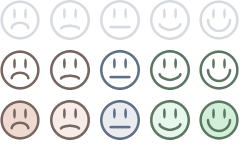
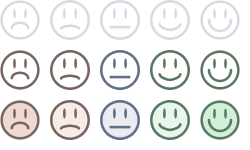
Simplified rating buttons (thanks to advice from gkoberger)

Changed region(s): [[0.784, 0.32, 0.98, 0.6133], [0.784, 0.6667, 0.98, 0.9333], [0.784, 0.0267, 0.952, 0.24]]

diff --git a/feedback.html b/feedback.html
@@ -76,47 +76,47 @@
 			<tbody>
 				<tr>
 					<th>Start-Up Time <span class="help" title="How long Firefox takes to start running"></span></th>
-					<td><span class="a1"><input type="radio" name="q1" value="a1" title="Poor" /></span></td>
-					<td><span class="a2"><input type="radio" name="q1" value="a2" title="Fair" /></span></td>
-					<td><span class="a3"><input type="radio" name="q1" value="a3" title="Don't Care" /></span></td>
-					<td><span class="a4"><input type="radio" name="q1" value="a4" title="Good" /></span></td>
-					<td><span class="a5"><input type="radio" name="q1" value="a5" title="Excellent" /></span></td>
+					<td><input id="q1-a1" type="radio" name="q1" value="a1" /> <label title="Poor" for="q1-a1"></label></td>
+					<td><input id="q1-a2" type="radio" name="q1" value="a2" /> <label title="Fair" for="q1-a2"></label></td>
+					<td><input id="q1-a3" type="radio" name="q1" value="a3" /> <label title="Don't Care" for="q1-a3"></label></td>
+					<td><input id="q1-a4" type="radio" name="q1" value="a4" /> <label title="Good" for="q1-a4"></label></td>
+					<td><input id="q1-a5" type="radio" name="q1" value="a5" /> <label title="Excellent" for="q1-a5"></label></td>
 				</tr>
 
 				<tr>
-					<th>Page Load Time <span class="help" title="How long it takes for web pages to load"></span></th>
-					<td><span class="a1"><input type="radio" name="q2" value="a1" title="Poor" /></span></td>
-					<td><span class="a2"><input type="radio" name="q2" value="a2" title="Fair" /></span></td>
-					<td><span class="a3"><input type="radio" name="q2" value="a3" title="Don't Care" /></span></td>
-					<td><span class="a4"><input type="radio" name="q2" value="a4" title="Good" /></span></td>
-					<td><span class="a5"><input type="radio" name="q2" value="a5" title="Excellent" /></span></td>
+					<th>Page Load Time <label class="help" title="How long it takes for web pages to load"></th>
+					<td><input id="q2-a1" type="radio" name="q2" value="a1" /> <label title="Poor" for="q2-a1"></label></td>
+					<td><input id="q2-a2" type="radio" name="q2" value="a2" /> <label title="Fair" for="q2-a2"></label></td>
+					<td><input id="q2-a3" type="radio" name="q2" value="a3" /> <label title="Don't Care" for="q2-a3"></label></td>
+					<td><input id="q2-a4" type="radio" name="q2" value="a4" /> <label title="Good" for="q2-a4"></label></td>
+					<td><input id="q2-a5" type="radio" name="q2" value="a5" /> <label title="Excellent" for="q2-a5"></label></td>
 				</tr>
 
 				<tr>
-					<th>Responsiveness <span class="help" title="How quickly web pages respond once they have loaded"></span></th>
-					<td><span class="a1"><input type="radio" name="q3" value="a1" title="Poor" /></span></td>
-					<td><span class="a2"><input type="radio" name="q3" value="a2" title="Fair" /></span></td>
-					<td><span class="a3"><input type="radio" name="q3" value="a3" title="Don't Care" /></span></td>
-					<td><span class="a4"><input type="radio" name="q3" value="a4" title="Good" /></span></td>
-					<td><span class="a5"><input type="radio" name="q3" value="a5" title="Excellent" /></span></td>
+					<th>Responsiveness <label class="help" title="How quickly web pages respond once they have loaded"></th>
+					<td><input id="q3-a1" type="radio" name="q3" value="a1" /> <label title="Poor" for="q3-a1"></label></td>
+					<td><input id="q3-a2" type="radio" name="q3" value="a2" /> <label title="Fair" for="q3-a2"></label></td>
+					<td><input id="q3-a3" type="radio" name="q3" value="a3" /> <label title="Don't Care" for="q3-a3"></label></td>
+					<td><input id="q3-a4" type="radio" name="q3" value="a4" /> <label title="Good" for="q3-a4"></label></td>
+					<td><input id="q3-a5" type="radio" name="q3" value="a5" /> <label title="Excellent" for="q3-a5"></label></td>
 				</tr>
 
 				<tr>
-					<th>Crashiness <span class="help" title="How frequently Firefox crashes or loses data"></span></th>
-					<td><span class="a1"><input type="radio" name="q4" value="a1" title="Poor" /></span></td>
-					<td><span class="a2"><input type="radio" name="q4" value="a2" title="Fair" /></span></td>
-					<td><span class="a3"><input type="radio" name="q4" value="a3" title="Don't Care" /></span></td>
-					<td><span class="a4"><input type="radio" name="q4" value="a4" title="Good" /></span></td>
-					<td><span class="a5"><input type="radio" name="q4" value="a5" title="Excellent" /></span></td>
+					<th>Crashiness <label class="help" title="How frequently Firefox crashes or loses data"></th>
+					<td><input id="q4-a1" type="radio" name="q4" value="a1" /> <label title="Poor" for="q4-a1"></label></td>
+					<td><input id="q4-a2" type="radio" name="q4" value="a2" /> <label title="Fair" for="q4-a2"></label></td>
+					<td><input id="q4-a3" type="radio" name="q4" value="a3" /> <label title="Don't Care" for="q4-a3"></label></td>
+					<td><input id="q4-a4" type="radio" name="q4" value="a4" /> <label title="Good" for="q4-a4"></label></td>
+					<td><input id="q4-a5" type="radio" name="q4" value="a5" /> <label title="Excellent" for="q4-a5"></label></td>
 				</tr>
 
 				<tr>
-					<th>Features <span class="help" title="How well Firefox's built-in features serve your needs"></span></th>
-					<td><span class="a1"><input type="radio" name="q5" value="a1" title="Poor" /></span></td>
-					<td><span class="a2"><input type="radio" name="q5" value="a2" title="Fair" /></span></td>
-					<td><span class="a3"><input type="radio" name="q5" value="a3" title="Don't Care" /></span></td>
-					<td><span class="a4"><input type="radio" name="q5" value="a4" title="Good" /></span></td>
-					<td><span class="a5"><input type="radio" name="q5" value="a5" title="Excellent" /></span></td>
+					<th>Features <label class="help" title="How well Firefox's built-in features serve your needs"></th>
+					<td><input id="q5-a1" type="radio" name="q5" value="a1" /> <label title="Poor" for="q5-a1"></label></td>
+					<td><input id="q5-a2" type="radio" name="q5" value="a2" /> <label title="Fair" for="q5-a2"></label></td>
+					<td><input id="q5-a3" type="radio" name="q5" value="a3" /> <label title="Don't Care" for="q5-a3"></label></td>
+					<td><input id="q5-a4" type="radio" name="q5" value="a4" /> <label title="Good" for="q5-a4"></label></td>
+					<td><input id="q5-a5" type="radio" name="q5" value="a5" /> <label title="Excellent" for="q5-a5"></label></td>
 				</tr>
 			</tbody>
 		</table>

diff --git a/style.css b/style.css
@@ -427,7 +427,7 @@ footer:hover {
 			#rate table tbody td {
 				text-align: center;
 			}
-			#rate table tbody td span {
+			#rate table tbody td label {
 				position: relative;
 				display: block;
 				width: 40px;
@@ -436,36 +436,38 @@ footer:hover {
 				background-image: url(ratings.png);
 				background-repeat: no-repeat 0 0;
 				overflow: hidden;
+				cursor: pointer;
+			}
+			#rate table tbody td input:focus + label {
+				border-radius: 20px;
+				box-shadow: 0 0 4px #5084C8;
 			}
 			#rate table tbody td input {
 				position: absolute;
-				left: 0;
-				top: 0;
-				width: 100%;
-				height: 100%;
-				border: 0 !important;
-				padding: 0 !important;
+				left: -1000em;
+				top: -1000em;
+				width: 0;
+				height: 0;
 				opacity: 0;
-				cursor: pointer;
 			}
 		
-			#rate table .a1 { background-position: 0px 0; }
-			#rate table .a2 { background-position: -50px 0; }
-			#rate table .a3 { background-position: -100px 0; }
-			#rate table .a4 { background-position: -150px 0; }
-			#rate table .a5 { background-position: -200px 0; }
+			#rate table input[value="a1"] + label { background-position: 0px 0; }
+			#rate table input[value="a2"] + label { background-position: -50px 0; }
+			#rate table input[value="a3"] + label { background-position: -100px 0; }
+			#rate table input[value="a4"] + label { background-position: -150px 0; }
+			#rate table input[value="a5"] + label { background-position: -200px 0; }
 		
-			#rate table .a1:hover { background-position: 0px -50px; }
-			#rate table .a2:hover { background-position: -50px -50px; }
-			#rate table .a3:hover { background-position: -100px -50px; }
-			#rate table .a4:hover { background-position: -150px -50px; }
-			#rate table .a5:hover { background-position: -200px -50px; }
+			#rate table input[value="a1"] + label:hover { background-position: 0px -50px; }
+			#rate table input[value="a2"] + label:hover { background-position: -50px -50px; }
+			#rate table input[value="a3"] + label:hover { background-position: -100px -50px; }
+			#rate table input[value="a4"] + label:hover { background-position: -150px -50px; }
+			#rate table input[value="a5"] + label:hover { background-position: -200px -50px; }
 		
-			#rate table .a1.checked { background-position: 0px -100px; }
-			#rate table .a2.checked { background-position: -50px -100px; }
-			#rate table .a3.checked { background-position: -100px -100px; }
-			#rate table .a4.checked { background-position: -150px -100px; }
-			#rate table .a5.checked { background-position: -200px -100px; }
+			#rate table input[value="a1"]:checked + label { background-position: 0px -100px; }
+			#rate table input[value="a2"]:checked + label { background-position: -50px -100px; }
+			#rate table input[value="a3"]:checked + label { background-position: -100px -100px; }
+			#rate table input[value="a4"]:checked + label { background-position: -150px -100px; }
+			#rate table input[value="a5"]:checked + label { background-position: -200px -100px; }
 		
 		
 #broken {

diff --git a/script.js b/script.js
@@ -39,23 +39,6 @@
 			
 			return this;
 		},
-		styledRadio: function(radioSelector, parentSelector) {
-			var self = this.get();
-			updateChecks(this);
-			return this.delegate(radioSelector, 'change', onChange)
-			           .delegate(radioSelector, 'focus', onFocus)
-			           .delegate(radioSelector, 'blur', onBlur);
-			
-			function onFocus(e) { $(this).closest(parentSelector).addClass('focused'); }
-			function onBlur(e) { $(this).closest(parentSelector).removeClass('focused'); }
-			function onChange(e) { updateChecks($(self)); }
-			
-			function updateChecks(self) {
-				self.find(radioSelector).each(function() {
-					$(this).closest(parentSelector).toggleClass('checked', this.checked);
-				});
-			}
-		},
 		submitButton: function(state) {
 			var textElem = this.find('span');
 			var oldHTML = textElem.html();
@@ -102,8 +85,6 @@
 			goToArticle(document.location.hash);
 		};
 		
-		$('#rate table').styledRadio('input', 'span');
-
 		$('article form').submit(function(e) {
 			var button = $(this).find('.submit a');
 			button.submitButton('waiting');
